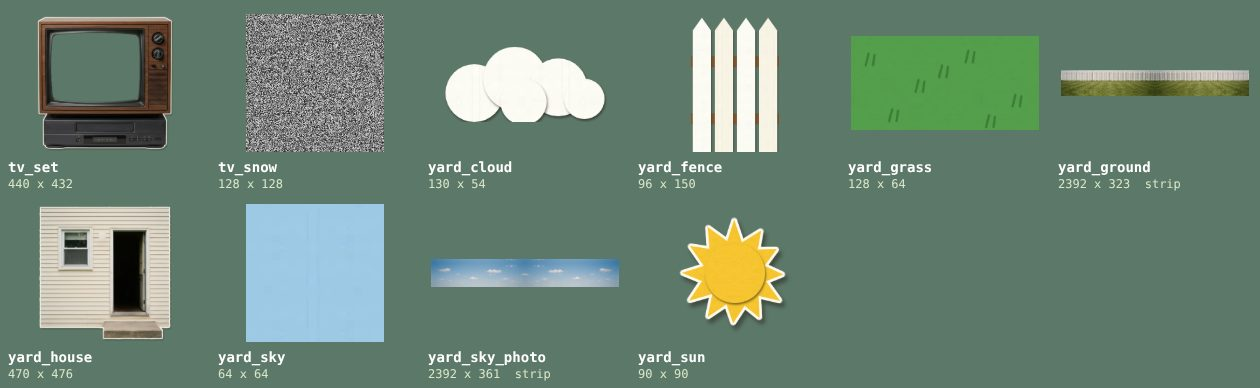
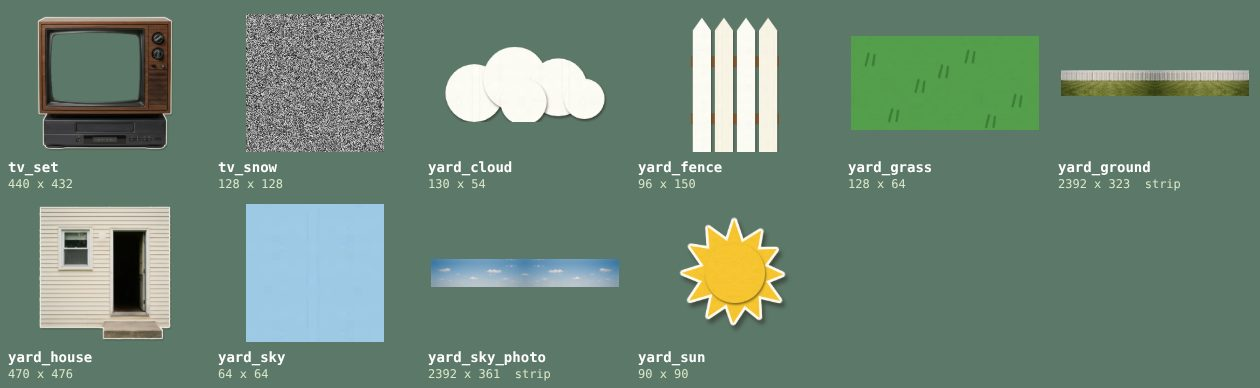
The catalogue, with the three games at Le Papillon in it
Made again from the whole game: 95 new pictures, each in its own game's
section, and none that was there before has changed.

Claude-Session: https://claude.ai/code/session_019b7mfNj7R9wb9fzyFrEuse

Changed region(s): [[0.1857, 0.0309, 0.3095, 0.4021]]

diff --git a/docs/catalogue/README.md b/docs/catalogue/README.md
@@ -12,8 +12,11 @@ The size is how big the picture is drawn, in the game's own pixels (the page is 
 - [People: everybody's faces](#cast) (206)
 - [The rubberneckers, and the animals](#gawkers) (51)
 - [Effects](#effects) (25)
-- [Words on bursts](#words) (51)
+- [Words on bursts](#words) (61)
 - [The interface](#interface) (26)
+- [The quick game "favorite"](#game-favorite) (8)
+- [The quick game "papillon"](#game-papillon) (51)
+- [The quick game "veggies"](#game-veggies) (26)
 
 <a id="places"></a>
 
@@ -663,6 +666,8 @@ Shown with `this.host.word('bonk', x, y)`: the name without "word_".
 | `word_dodged` | 108 x 73 |  | paper |
 | `word_extra` | 340 x 231 |  | paper |
 | `word_fatality` | 520 x 190 |  | paper |
+| `word_favorite_anniversary` | 310 x 164 |  | paper |
+| `word_favorite_hic` | 104 x 71 |  | paper |
 | `word_fight` | 360 x 245 |  | paper |
 | `word_flawless` | 560 x 92 |  | paper |
 | `word_gethim` | 320 x 218 |  | paper |
@@ -679,6 +684,9 @@ Shown with `this.host.word('bonk', x, y)`: the name without "word_".
 | `word_nope` | 104 x 71 |  | paper |
 | `word_ow` | 86 x 58 |  | paper |
 | `word_pah` | 300 x 204 |  | paper |
+| `word_papillon_badumtss` | 190 x 129 |  | paper |
+| `word_papillon_bonappetit` | 400 x 130 |  | paper |
+| `word_papillon_coincidence` | 430 x 140 |  | paper |
 | `word_perfect` | 124 x 84 |  | `src/assets/scrap/word-perfect.webp` |
 | `word_pff` | 120 x 82 |  | paper |
 | `word_pocketsand` | 470 x 320 |  | paper |
@@ -693,6 +701,11 @@ Shown with `this.host.word('bonk', x, y)`: the name without "word_".
 | `word_thwack` | 106 x 73 |  | `src/assets/scrap/word-thwack.webp` |
 | `word_tickles` | 136 x 92 |  | paper |
 | `word_toomany` | 140 x 95 |  | paper |
+| `word_veggies_burp` | 128 x 87 |  | paper |
+| `word_veggies_cleanplate` | 340 x 231 |  | paper |
+| `word_veggies_gulp` | 150 x 102 |  | paper |
+| `word_veggies_nope` | 132 x 90 |  | paper |
+| `word_veggies_ptooey` | 200 x 136 |  | paper |
 | `word_whack` | 106 x 74 |  | `src/assets/scrap/word-whack.webp` |
 | `word_whiff` | 140 x 95 |  | paper |
 | `word_yeowch` | 160 x 109 |  | paper |
@@ -735,3 +748,123 @@ Buttons, tape, meters and marks.
 | `title_card` | 440 x 232 |  | paper |
 | `title_sub` | 290 x 50 |  | paper |
 | `you_are` | 250 x 44 |  | paper |
+
+<a id="game-favorite"></a>
+
+## The quick game "favorite"
+
+Made by `src/minis/favorite`, and kept in its folder.
+
+![The quick game "favorite"](game-favorite.jpg)
+
+| Name | Size | | File |
+| --- | --- | --- | --- |
+| `favorite_bottle` | 46 x 170 |  | `src/minis/favorite/assets/bottle.webp` |
+| `favorite_bottle_empty` | 46 x 170 |  | `src/minis/favorite/assets/bottle-empty.webp` |
+| `favorite_cup` | 70 x 130 |  | paper |
+| `favorite_heart` | 46 x 42 |  | paper |
+| `favorite_heart_empty` | 46 x 42 |  | paper |
+| `favorite_no1` | 40 x 40 |  | paper |
+| `favorite_point` | 126 x 60 |  | paper |
+| `favorite_shh` | 60 x 130 |  | paper |
+
+<a id="game-papillon"></a>
+
+## The quick game "papillon"
+
+Made by `src/minis/papillon`, and kept in its folder.
+
+![The quick game "papillon", sheet 1](game-papillon-1.jpg)
+
+![The quick game "papillon", sheet 2](game-papillon-2.jpg)
+
+| Name | Size | | File |
+| --- | --- | --- | --- |
+| `papillon_amuse` | 110 x 40 |  | paper |
+| `papillon_butterfly` | 56 x 46 |  | paper |
+| `papillon_candle` | 40 x 104 |  | paper |
+| `papillon_card` | 340 x 44 |  | paper |
+| `papillon_card_no` | 340 x 44 |  | paper |
+| `papillon_chair` | 150 x 230 |  | paper |
+| `papillon_cloche` | 110 x 78 |  | paper |
+| `papillon_dish_cake` | 100 x 78 |  | paper |
+| `papillon_dish_cheesecake` | 100 x 78 |  | paper |
+| `papillon_dish_chicken` | 100 x 78 |  | paper |
+| `papillon_dish_escargots` | 100 x 78 |  | paper |
+| `papillon_dish_lobster` | 100 x 78 |  | paper |
+| `papillon_dish_salad` | 100 x 78 |  | paper |
+| `papillon_dish_salmon` | 100 x 78 |  | paper |
+| `papillon_dish_shrimp` | 100 x 78 |  | paper |
+| `papillon_dish_soup` | 100 x 78 |  | paper |
+| `papillon_dish_steak` | 100 x 78 |  | paper |
+| `papillon_dish_sundae` | 100 x 78 |  | paper |
+| `papillon_dish_tart` | 100 x 78 |  | paper |
+| `papillon_floor` | 120 x 120 |  | paper |
+| `papillon_frame0` | 86 x 104 |  | paper |
+| `papillon_frame1` | 86 x 104 |  | paper |
+| `papillon_frame2` | 86 x 104 |  | paper |
+| `papillon_frame3` | 86 x 104 |  | paper |
+| `papillon_glass` | 36 x 70 |  | paper |
+| `papillon_glass_red` | 36 x 70 |  | paper |
+| `papillon_glow` | 220 x 220 |  | paper |
+| `papillon_menu` | 132 x 150 |  | paper |
+| `papillon_panel` | 150 x 190 |  | paper |
+| `papillon_plate` | 96 x 28 |  | paper |
+| `papillon_puff` | 30 x 30 |  | paper |
+| `papillon_rank1` | 44 x 44 |  | paper |
+| `papillon_rank2` | 44 x 44 |  | paper |
+| `papillon_rank3` | 44 x 44 |  | paper |
+| `papillon_rose` | 40 x 96 |  | paper |
+| `papillon_sconce` | 60 x 96 |  | paper |
+| `papillon_sign` | 330 x 110 |  | paper |
+| `papillon_sit_bill` | 190 x 210 |  | paper |
+| `papillon_sit_branson` | 190 x 210 |  | paper |
+| `papillon_sit_chad` | 190 x 210 |  | paper |
+| `papillon_sit_christian` | 190 x 210 |  | paper |
+| `papillon_sit_shane` | 190 x 210 |  | paper |
+| `papillon_sit_stephanie` | 190 x 210 |  | paper |
+| `papillon_table` | 620 x 200 |  | paper |
+| `papillon_table_long` | 1060 x 200 |  | paper |
+| `papillon_thought` | 250 x 150 |  | paper |
+| `papillon_thought_wide` | 350 x 150 |  | paper |
+| `papillon_tray` | 120 x 20 |  | paper |
+| `papillon_waiter` | 220 x 340 |  | paper |
+| `papillon_waiter_serve` | 220 x 340 |  | paper |
+| `papillon_wall` | 180 x 320 |  | paper |
+
+<a id="game-veggies"></a>
+
+## The quick game "veggies"
+
+Made by `src/minis/veggies`, and kept in its folder.
+
+![The quick game "veggies"](game-veggies.jpg)
+
+| Name | Size | | File |
+| --- | --- | --- | --- |
+| `veggies_arm_bill` | 200 x 30 |  | paper |
+| `veggies_arm_steph` | 200 x 24 |  | paper |
+| `veggies_body` | 130 x 124 |  | paper |
+| `veggies_branson_angry` | 134 x 202 |  | `src/assets/scrap/face-branson-angry.webp` |
+| `veggies_branson_cry` | 134 x 202 |  | `src/assets/scrap/face-branson-cry.webp` |
+| `veggies_branson_dazed` | 136 x 204 |  | `src/assets/scrap/face-branson-dazed.webp` |
+| `veggies_branson_disgusted` | 134 x 202 |  | `src/assets/scrap/face-branson-disgusted.webp` |
+| `veggies_branson_shocked` | 134 x 207 |  | `src/assets/scrap/face-branson-shocked.webp` |
+| `veggies_branson_smile` | 136 x 202 |  | `src/assets/scrap/face-branson-smile.webp` |
+| `veggies_branson_smug` | 135 x 202 |  | `src/assets/scrap/face-branson-smug.webp` |
+| `veggies_branson_worried` | 134 x 202 |  | `src/assets/scrap/face-branson-worried.webp` |
+| `veggies_broccoli` | 176 x 126 |  | paper |
+| `veggies_carrot` | 150 x 48 |  | paper |
+| `veggies_corn` | 152 x 66 |  | paper |
+| `veggies_fist` | 44 x 40 |  | paper |
+| `veggies_forearm` | 200 x 21 |  | paper |
+| `veggies_kidarm` | 62 x 22 |  | paper |
+| `veggies_leaf` | 24 x 16 |  | paper |
+| `veggies_lump` | 58 x 40 |  | paper |
+| `veggies_neck` | 36 x 60 |  | paper |
+| `veggies_noodles` | 140 x 96 |  | paper |
+| `veggies_palm` | 46 x 48 |  | paper |
+| `veggies_pinch` | 50 x 44 |  | paper |
+| `veggies_teeth_bot` | 66 x 14 |  | paper |
+| `veggies_teeth_top` | 66 x 14 |  | paper |
+| `veggies_tongue` | 74 x 24 |  | paper |

diff --git a/src/minis/papillon/README.md b/src/minis/papillon/README.md
@@ -191,7 +191,12 @@ off) and makes four small ones of its own out of `sound.tone()` and
 | The rimshot (ba-dum, tss) | 0.17 on the drums |
 | The waiter clearing his throat ("AHEM.", if Bill takes too long) | 0.17 |
 | The thought popping up | 0.13 |
-| The waiter's footsteps | see below |
+| The waiter's footsteps | about 0.06, on purpose: they are under everything else |
+
+(The footsteps were measured at 0.11 when they were set nearly twice as
+loud, and turned down from there; the meter read low on the later runs,
+with other work going on, so that last number is worked out and not read
+off.)
 
 Nobody has heard any of it yet: whether each is the right sound is for the
 owner to say, in the preview.
